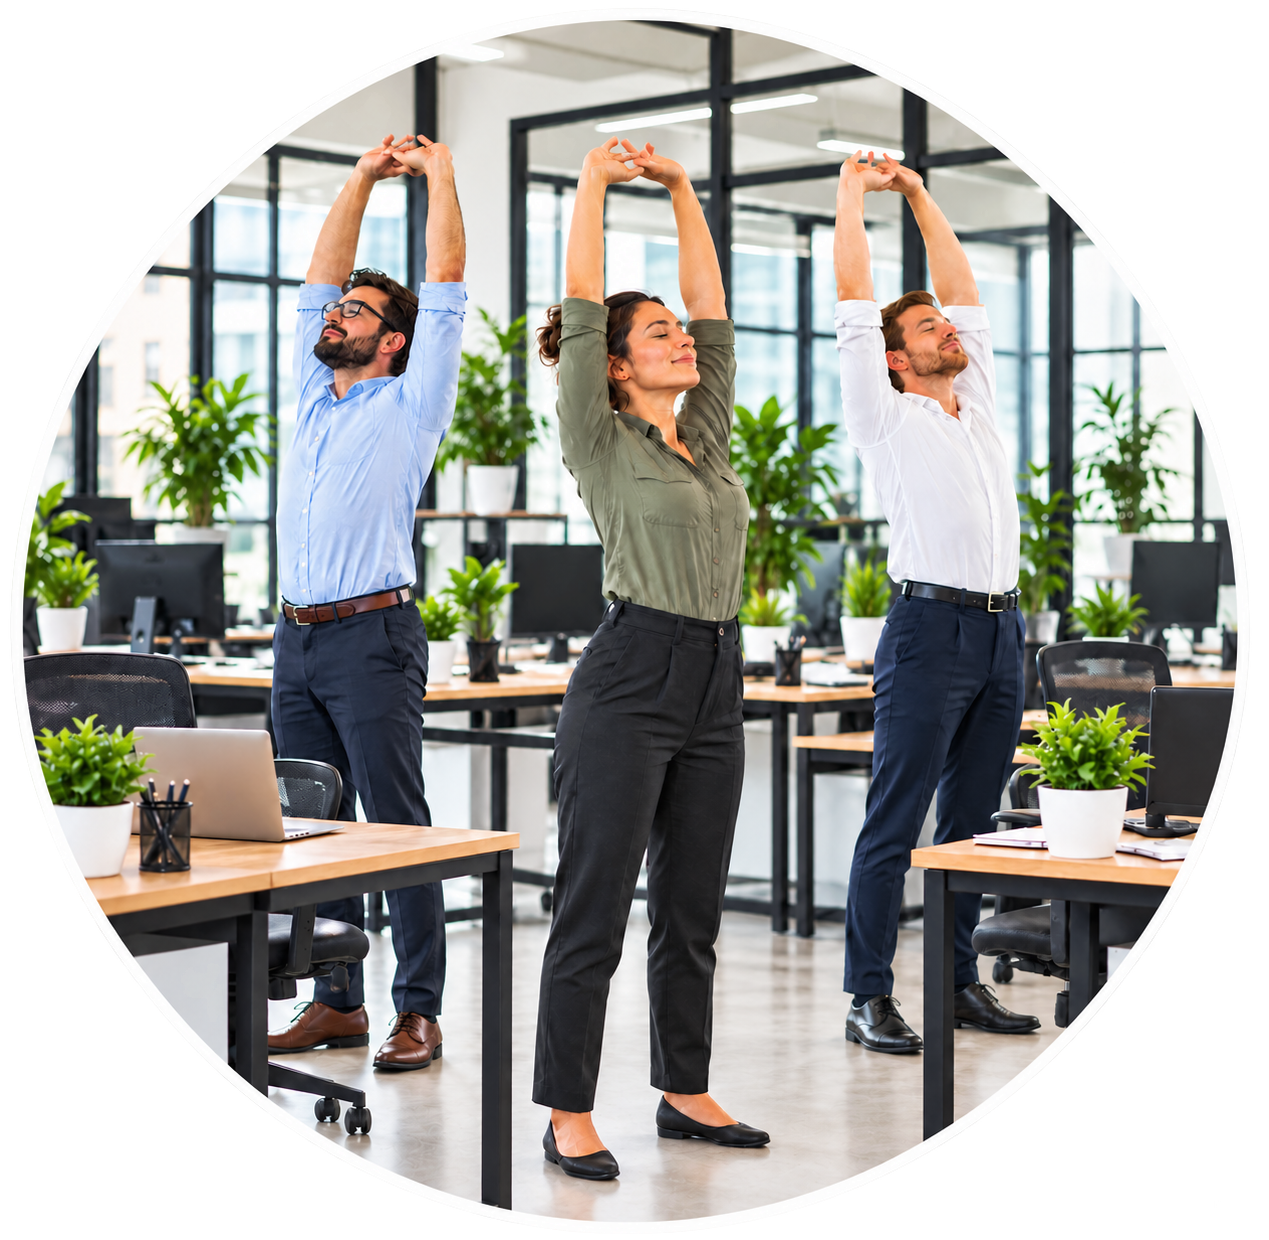
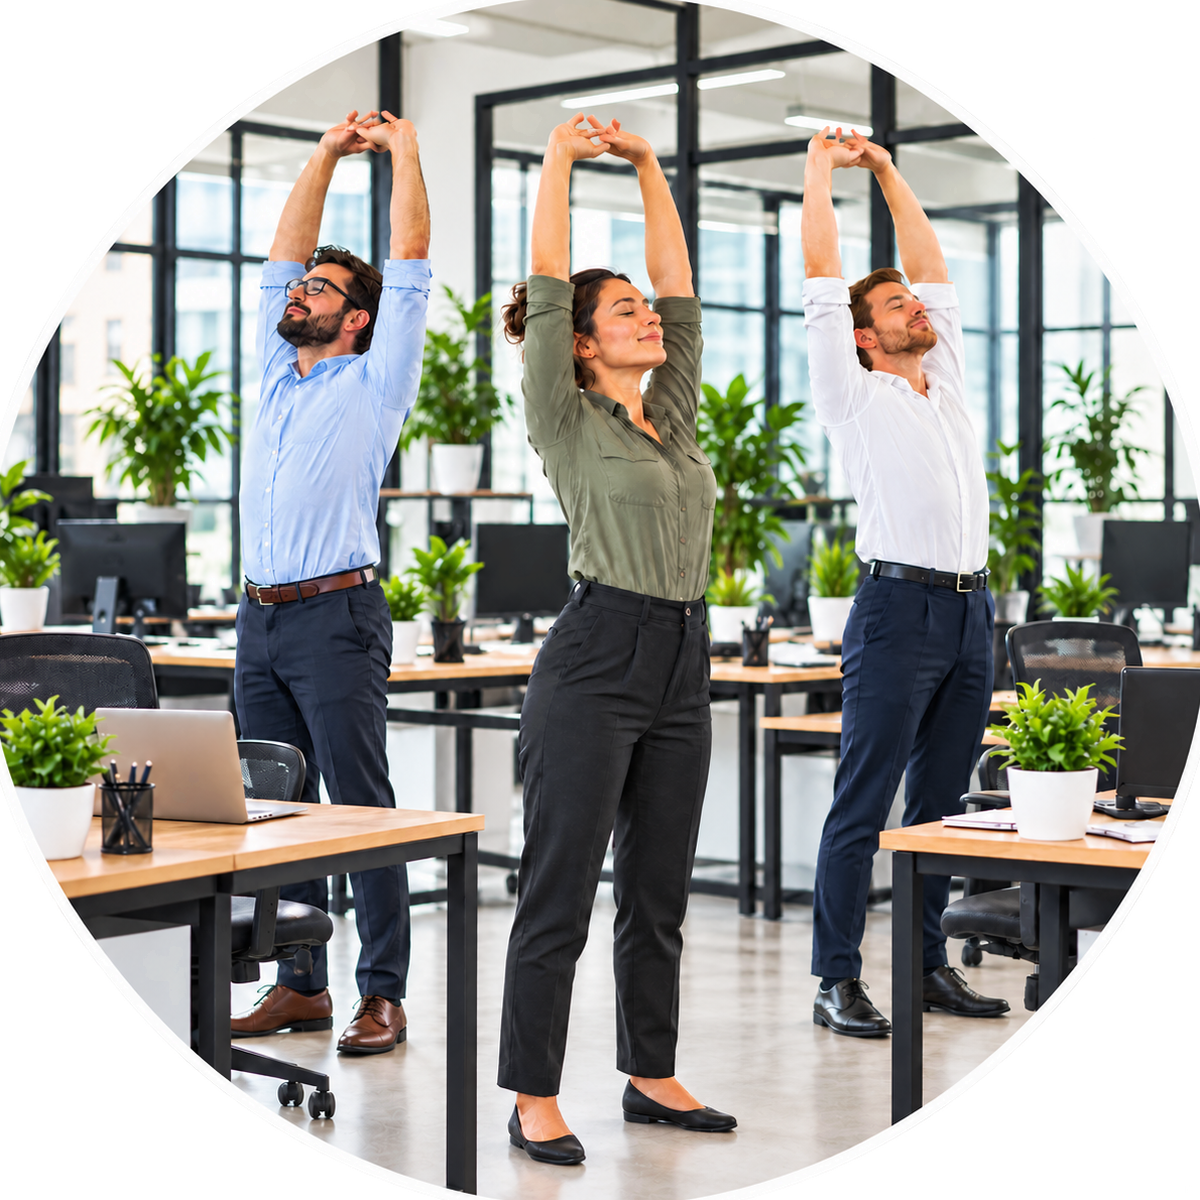
Add files via upload

diff --git a/public/index.html b/public/index.html
@@ -3,8 +3,8 @@
 <head>
 <meta charset="utf-8"/>
 <meta name="viewport" content="width=device-width, initial-scale=1"/>
-<title>Au bureau, bougez plus | MVT-Solutions</title>
-<meta name="description" content="Des pauses actives et un accompagnement de proximité pour agir sur la sédentarité et les TMS au travail."/>
+<title>Pauses actives au bureau et prévention des TMS | MVT-Solutions</title>
+<meta name="description" content="Pauses actives, prévention des TMS et lutte contre la sédentarité au travail. MVT-Solutions accompagne vos équipes en entreprise, à Lyon et en Auvergne-Rhône-Alpes.">
 <style>
 :root{--green:#0a9f16;--green-dark:#07850f;--green-soft:#f2f8f1;--green-soft-2:#eaf5e9;--orange:#ef6a2c;--ink:#2f3331;--muted:#5b615e;--line:#d9e1d8;--white:#fff;--max:1240px;}
 *{box-sizing:border-box}
@@ -43,8 +43,12 @@ nav a:hover{color:var(--green-dark)}
 .hero-visual{display:flex;flex-direction:column;align-items:flex-end;justify-content:center}
 .hero-photo{width:min(100%,520px);aspect-ratio:1;border:4px solid #111;border-radius:50%;padding:12px;background:#fff;box-shadow:0 20px 48px rgba(30,70,35,.10);overflow:hidden}
 .hero-photo img{display:block;width:100%;height:100%;object-fit:contain;object-position:center;border-radius:50%;border:0;outline:0;background:#fff}
+.hero-badge{margin-top:24px;width:300px;background:#fff;border:1px solid #e3e3e3;padding:20px 22px;border-radius:12px;box-shadow:0 12px 28px rgba(0,0,0,.07)}
+.hero-badge strong{display:block;color:var(--green);font-size:24px;line-height:1.2;margin-bottom:6px}
+.hero-badge span{font-size:16px;line-height:1.55;color:#3e4541}
 .trust{background:#F2F8F1;color:#2f3831;border-top:1px solid #dfe9de;border-bottom:1px solid #dfe9de}
 .trust .container{display:flex;justify-content:center;align-items:center;padding:28px 0}
+.trust-photo{display:none !important}
 .trust-item{display:flex;flex-direction:column;justify-content:center;align-items:center;padding:0;border:none;min-height:auto;max-width:760px;margin:0 auto;text-align:center}
 .trust-item strong{display:block;font-size:28px;line-height:1.14;font-weight:700;letter-spacing:-.01em;color:#0b7d28}
 .trust-item p{margin:10px 0 0;font-size:18px;line-height:1.55;color:#425347}
@@ -102,8 +106,8 @@ textarea{min-height:116px;resize:vertical}
 .form .btn{margin-top:16px;width:100%}
 .form-note{font-size:13px;color:#777!important;margin-top:10px!important}
 footer{background:#111;color:#aaa;border-top:1px solid #282828;padding:22px 0;font-size:14px}
-@media(max-width:1020px){.hero-grid,.split,.benefits-grid,.contact-grid,.method-head{grid-template-columns:1fr}.hero-grid{min-height:0;gap:44px}.hero-visual{align-items:center}.cards{grid-template-columns:1fr}.steps{grid-template-columns:1fr 1fr}.trust .container{padding:22px 0}.trust-item strong{font-size:24px}}
-@media(max-width:760px){.container{width:min(var(--max),calc(100% - 30px))}.section{padding:64px 0}nav{display:none}.menu-btn{display:block}.hero-grid{padding:42px 0 58px}.hero h1{font-size:clamp(44px,12.5vw,58px)}.hero-sub{font-size:clamp(21px,6vw,26px)}.hero-copy{font-size:17px}.hero-photo{width:min(92vw,380px);border-width:4px;padding:9px}.statement{padding:28px}.statement .quote{font-size:clamp(28px,8vw,36px);max-width:none}.statement h3{font-size:23px}.statement p:last-child{font-size:17px}.benefit-grid,.why-grid,.form-grid{grid-template-columns:1fr}.steps{grid-template-columns:1fr}.field.full{grid-column:auto}.founder-photo{width:136px;height:136px;flex-basis:136px}}
+@media(max-width:1020px){.hero-grid,.split,.benefits-grid,.contact-grid,.method-head{grid-template-columns:1fr}.hero-grid{min-height:0;gap:44px}.hero-visual{align-items:center}.hero-badge{margin-left:auto;margin-right:auto}.cards{grid-template-columns:1fr}.steps{grid-template-columns:1fr 1fr}.trust .container{padding:22px 0}.trust-item strong{font-size:24px}}
+@media(max-width:760px){.container{width:min(var(--max),calc(100% - 30px))}.section{padding:64px 0}.eyebrow{font-size:20px}.section-title{font-size:clamp(34px,9vw,44px)}.section-lead{font-size:17px}nav{display:none}.menu-btn{display:block}.hero-grid{padding:42px 0 58px}.hero h1{font-size:clamp(44px,12.5vw,58px)}.hero-sub{font-size:clamp(21px,6vw,26px)}.hero-copy{font-size:17px}.hero-photo{width:min(92vw,380px);border-width:4px;padding:9px}.hero-badge{width:100%;max-width:320px}.statement{padding:28px}.statement .quote{font-size:clamp(28px,8vw,36px);max-width:none}.statement h3{font-size:23px}.statement p:last-child{font-size:17px}.benefit-grid,.why-grid,.form-grid{grid-template-columns:1fr}.steps{grid-template-columns:1fr}.field.full{grid-column:auto}.founder-photo{width:136px;height:136px;flex-basis:136px}}
 @media(max-width:440px){.hero-actions{display:grid}.hero-actions .btn{width:100%}.founder-photo{width:124px;height:124px;flex-basis:124px}}
 .form-status{margin:16px 0 0;padding:12px 14px;border-radius:4px;font-size:15px;line-height:1.5;display:none}
 .form-status[data-state="success"]{display:block;color:#145522;background:#e8f7eb;border:1px solid #b4dcbc}
@@ -139,10 +143,10 @@ footer{background:#111;color:#aaa;border-top:1px solid #282828;padding:22px 0;fo
 <section class="hero">
   <div class="container hero-grid">
     <div>
-      <p class="eyebrow">Pauses actives en entreprise</p>
-      <h1>Au bureau,<br/>bougez plus.</h1>
-      <p class="hero-sub">Remettre du mouvement dans la journée de travail pour agir sur la sédentarité, les tensions et les TMS.</p>
-      <p class="hero-copy">MVT-Solutions accompagne les entreprises avec des pauses actives, de la prévention ciblée et des actions simples à mettre en place pour aider les équipes à bouger plus au quotidien.</p>
+      <p class="eyebrow">Pauses actives & prévention en entreprise</p>
+      <h1>Au bureau,<br>bougez plus.</h1>
+      <p class="hero-sub">Moins de temps assis. Moins de tensions. Plus d’énergie.</p>
+      <p class="hero-copy">MVT-Solutions aide les entreprises à remettre du mouvement dans la journée de travail grâce à des pauses actives, des ateliers de prévention et un accompagnement adapté aux besoins réels des équipes.</p>
       <div class="hero-actions"><a class="btn btn-dark" href="#contact">Échanger sur mon projet</a><a class="btn btn-light" href="#methode">Découvrir la méthode</a></div>
     </div>
     <div class="hero-visual">
@@ -150,30 +154,30 @@ footer{background:#111;color:#aaa;border-top:1px solid #282828;padding:22px 0;fo
     </div>
   </div>
 </section>
-<div class="trust"><div class="container"><article class="trust-item"><strong>Approche de proximité</strong><p>Humaine, concrète et adaptable, au plus près des équipes et de la réalité du travail de bureau.</p></article></div></div>
+<div class="trust"><div class="container"><article class="trust-item"><strong>Approche de proximité</strong><p>Humaine, concrète et adaptable, au plus près des équipes et des réalités du terrain.</p></article></div></div>
 <section class="section" id="enjeux">
   <div class="container split">
-    <div><p class="eyebrow">Pourquoi agir ?</p><h2 class="section-title">Remettre du mouvement là où la journée fige le corps.</h2><p class="section-lead">Le travail de bureau expose souvent à de longues périodes assises, à des postures répétées devant écran et à une baisse du mouvement spontané. En remettant quelques minutes d’activité au bon moment, il est possible d’agir sur les tensions, la concentration, la vigilance et le confort au quotidien.</p></div>
-    <div class="statement"><p class="quote">« Bouger un peu, régulièrement, change déjà beaucoup dans la journée de travail. »</p><h3>Le bon réflexe : se lever, mobiliser, respirer, reprendre.</h3><p>L’objectif n’est pas d’ajouter une contrainte de plus, mais de rendre le mouvement simple, utile et facile à intégrer dans la réalité du bureau.</p></div>
+    <div><p class="eyebrow">Le risque invisible du bureau</p><h2 class="section-title">Rester assis longtemps n’est pas neutre.</h2><p class="section-lead">Le travail sur écran et les périodes assises prolongées favorisent l’installation de la sédentarité. L’enjeu n’est pas de transformer la journée en séance de sport, mais de créer des occasions simples et régulières de remettre le corps en mouvement.</p></div>
+    <div class="statement"><p class="quote">« Quelques minutes de mouvement, répétées au bon moment, peuvent changer la journée de travail. »</p><h3>Le bon réflexe : interrompre, mobiliser, repartir.</h3><p>Une pause active peut aider à réduire les tensions, remettre le corps en mouvement, soutenir la concentration et installer progressivement de meilleures habitudes au travail.</p></div>
   </div>
 </section>
 <section class="section solutions" id="solutions">
-  <div class="container"><p class="eyebrow">Les solutions MVT-Solutions</p><h2 class="section-title">Des réponses simples pour remettre les équipes en mouvement.</h2><p class="section-lead">Nous combinons sensibilisation, pratique et accompagnement pour proposer les bons formats selon vos équipes, vos contraintes et votre organisation.</p>
+  <div class="container"><p class="eyebrow">Les solutions MVT-Solutions</p><h2 class="section-title">Du mouvement, oui. Mais surtout le bon format.</h2><p class="section-lead">Nous combinons sensibilisation, pratique et accompagnement pour proposer des actions simples à déployer et faciles à adopter par les collaborateurs.</p>
     <div class="cards">
-      <article class="card"><h3>Pauses actives</h3><p>Des séquences courtes et accessibles pour interrompre les postures prolongées et remettre du mouvement dans la journée.</p><ul><li>Mobilité douce</li><li>Activation articulaire</li><li>Formats faciles à intégrer</li></ul></article>
-      <article class="card"><h3>Prévention des TMS</h3><p>Des actions ciblées pour mieux comprendre les tensions liées au travail de bureau et mettre en place des réponses concrètes.</p><ul><li>Prévention de la sédentarité</li><li>Conscience posturale</li><li>Mouvements utiles au quotidien</li></ul></article>
-      <article class="card"><h3>Coaching spécialisé</h3><p>Un accompagnement plus global pour structurer une démarche sport-santé adaptée à vos équipes et à votre culture d’entreprise.</p><ul><li>Accompagnement sur-mesure</li><li>Formats collectifs ou ciblés</li><li>Vision durable et progressive</li></ul></article>
+      <article class="card"><h3>Pauses actives & sédentarité</h3><p>Des séquences courtes, accessibles en tenue de travail, pour interrompre les temps assis et remettre régulièrement le corps en mouvement.</p><ul><li>Mobilité et relâchement</li><li>Routines simples à reproduire</li><li>Formats intégrables à la journée</li></ul></article>
+      <article class="card"><h3>Prévention des TMS</h3><p>Des ateliers pour comprendre les facteurs de risque, analyser les contraintes et apprendre des gestes concrets adaptés à l’environnement professionnel.</p><ul><li>Comprendre les TMS</li><li>Identifier les facteurs de risque</li><li>Passer de la théorie à la pratique</li></ul></article>
+      <article class="card"><h3>Coaching spécialisé</h3><p>Pour les besoins plus ciblés : programmes structurés, petits groupes et accompagnement progressif pour améliorer la condition physique et le capital santé.</p><ul><li>Petits groupes</li><li>Programme adapté aux besoins</li><li>Accompagnement dans vos locaux</li></ul></article>
     </div>
   </div>
 </section>
 <section class="section" id="methode">
-  <div class="container"><div class="method-head"><div><p class="eyebrow">La méthode MVT-Solutions</p><h2 class="section-title">Observer les usages avant d’installer les bons réflexes.</h2></div><p class="section-lead">Nous partons de votre contexte, des habitudes de travail et des contraintes vécues pour proposer des actions utiles, faciles à faire vivre et adaptées à votre entreprise.</p></div>
-  <div class="steps"><div class="step"><div class="step-num">1</div><h3>Comprendre</h3><p>Identifier les situations de sédentarité, les habitudes de travail et les tensions les plus fréquentes.</p></div><div class="step"><div class="step-num">2</div><h3>Construire</h3><p>Choisir les bons formats : pauses actives, prévention ciblée ou accompagnement plus global.</p></div><div class="step"><div class="step-num">3</div><h3>Déployer</h3><p>Installer des temps simples et réguliers, faciles à intégrer dans le rythme de travail.</p></div><div class="step"><div class="step-num">4</div><h3>Faire vivre</h3><p>Accompagner les équipes pour ancrer une dynamique durable et cohérente avec la culture de l’entreprise.</p></div></div>
+  <div class="container"><div class="method-head"><div><p class="eyebrow">La méthode MVT-Solutions</p><h2 class="section-title">Comprendre avant d’agir.</h2></div><p class="section-lead">Pas de catalogue plaqué sur votre entreprise : nous partons de vos enjeux, des besoins de vos collaborateurs et de votre organisation pour construire un accompagnement réaliste.</p></div>
+    <div class="steps"><div class="step"><div class="step-num">1</div><h3>Échanger</h3><p>Une réunion de cadrage pour comprendre votre contexte, vos enjeux QVCT et vos objectifs.</p></div><div class="step"><div class="step-num">2</div><h3>Écouter</h3><p>Un sondage dédié peut être proposé pour mieux identifier les besoins et attentes des collaborateurs.</p></div><div class="step"><div class="step-num">3</div><h3>Analyser</h3><p>Restitution des données, recommandations et proposition d’actions adaptées à vos priorités.</p></div><div class="step"><div class="step-num">4</div><h3>Déployer</h3><p>Construction d’un calendrier de prestations cohérent avec votre organisation et votre budget.</p></div></div>
   </div>
 </section>
 <section class="section benefits">
-  <div class="container benefits-grid"><div><p class="eyebrow">Des effets concrets au quotidien</p><h2 class="section-title">Faire du mouvement un repère simple au bureau.</h2><p class="section-lead">L’idée n’est pas de proposer une action ponctuelle, mais d’installer des repères utiles pour aider les collaborateurs à bouger plus tout au long de la journée.</p></div>
-  <div class="benefit-grid"><div class="benefit"><b>Rompre la sédentarité</b><span>Créer des coupures utiles dans les journées trop statiques.</span></div><div class="benefit"><b>Retrouver de la mobilité</b><span>Agir sur les tensions liées aux postures de travail répétées.</span></div><div class="benefit"><b>Favoriser l’attention</b><span>Relancer la disponibilité physique et mentale au bon moment.</span></div><div class="benefit"><b>Créer une dynamique collective</b><span>Partager un temps simple qui soutient la cohésion d’équipe.</span></div></div>
+  <div class="container benefits-grid"><div><p class="eyebrow">Des effets concrets au quotidien</p><h2 class="section-title">Faire du mouvement une habitude de travail.</h2><p class="section-lead">L’objectif n’est pas une animation ponctuelle oubliée le lendemain. Nous cherchons à donner aux équipes des repères simples, réutilisables et faciles à ancrer dans leur quotidien.</p></div>
+    <div class="benefit-grid"><div class="benefit"><b>Moins de temps assis</b><span>Créer des ruptures régulières dans les périodes sédentaires.</span></div><div class="benefit"><b>Moins de tensions</b><span>Remettre de la mobilité et du relâchement dans la journée.</span></div><div class="benefit"><b>Plus d’énergie</b><span>Redonner un rythme plus actif aux temps de travail.</span></div><div class="benefit"><b>Des réflexes durables</b><span>Donner des routines simples que les équipes peuvent réutiliser.</span></div></div>
   </div>
 </section>
 <section class="section"><div class="container"><p class="eyebrow">Pourquoi MVT-Solutions ?</p><h2 class="section-title">Un partenaire santé et mouvement, pas juste une animation.</h2><div class="why-grid"><div class="why-card"><div class="metric">20 ans</div><h3>d’expérience sport santé</h3><p>Une expertise construite dans l’accompagnement du mouvement, de la condition physique et de la prévention.</p></div><div class="why-card"><div class="metric">Sur-mesure</div><h3>adapté à votre contexte</h3><p>Ateliers, pauses actives, coachings et calendrier de déploiement sont combinés selon vos besoins, vos publics et votre budget.</p></div></div></div></section>
